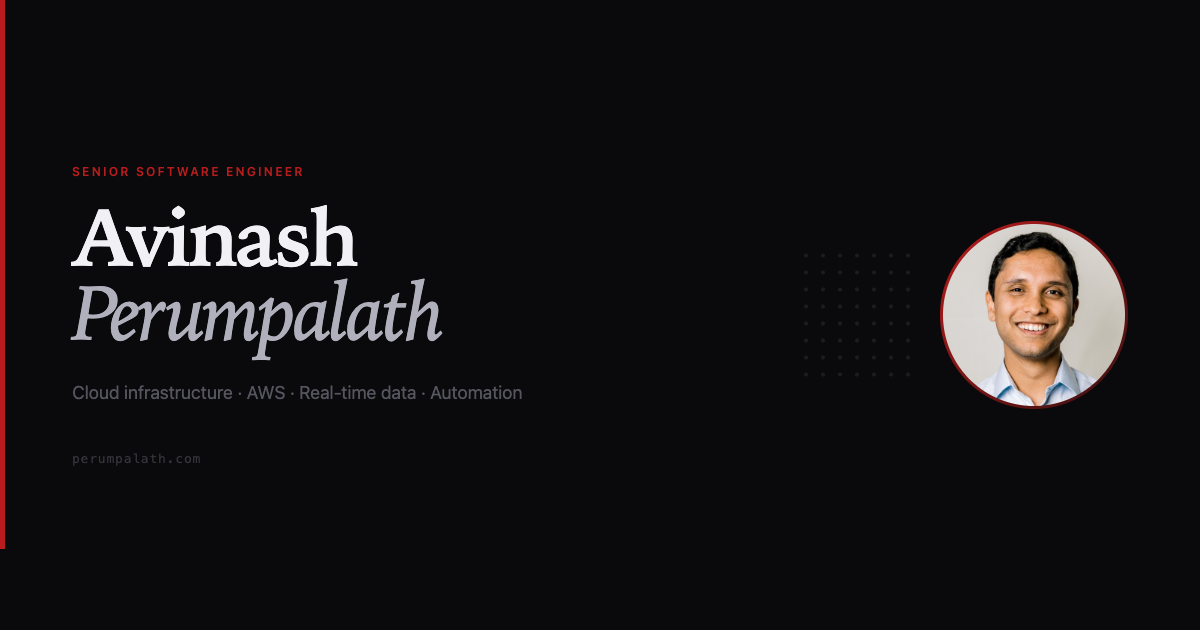
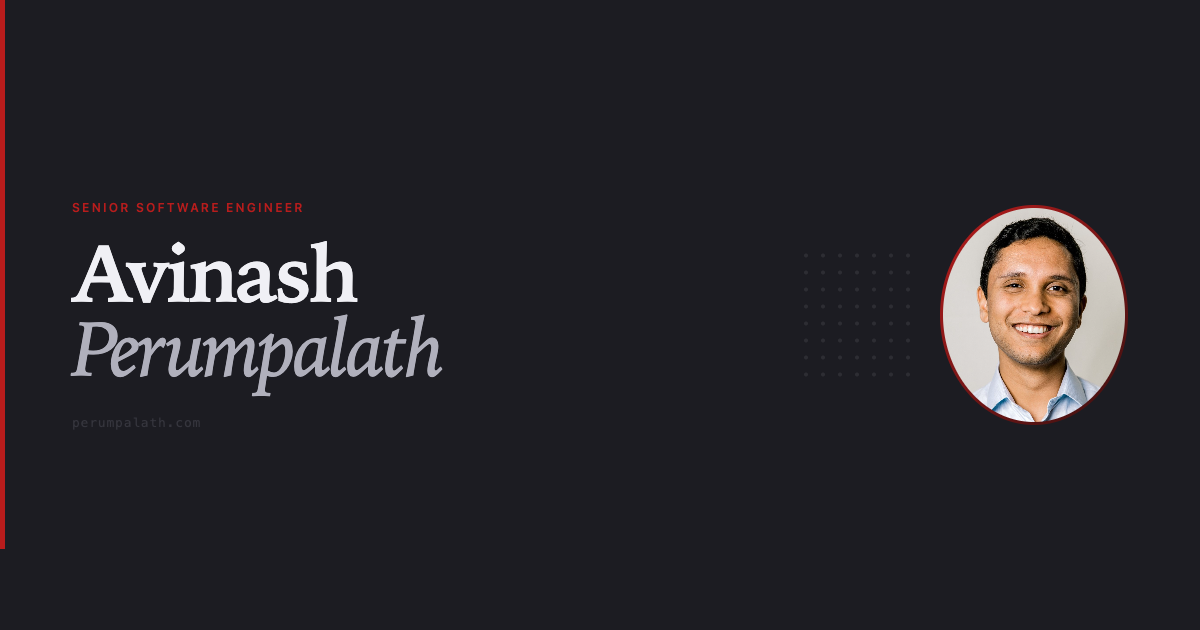
Trim sidebar bio, update OG card, and add README
- Shorten bio to a single focused sentence about Delta work
- OG card: softer dark background, larger headshot, tagline removed
- Update README to describe repo contents and OG image workflow

diff --git a/index.html b/index.html
@@ -519,8 +519,8 @@
     </div>
 
     <p class="sidebar-bio">
-      I am a cloud infrastructure and backend systems engineer with a focus on AWS, real-time data, and automation. Currently modernizing core operational systems at Delta Air Lines.<br><br>
-      I live in Kennesaw, GA with my wife and three young kids.
+      I am an experienced software engineer focused on cloud infrastructure, real-time data, and automation. Currently building operational and data systems at Delta Air Lines.<br><br>
+      I live in Kennesaw, GA with my wife and three young children.
     </p>
 
     <ul class="sidebar-nav">
@@ -559,7 +559,8 @@
         <div class="job-loc">Atlanta, GA</div>
         <ul class="bullets">
           <li>Leading cloud migration of a real-time passenger and flight record database, modernizing core operational infrastructure.</li>
-          <li>Helping lead AI integration efforts, identifying and implementing opportunities to bring intelligent automation into airline systems.</li>
+          <li>Building an internal data platform that aggregates passenger, flight, PNR, and operational data from across Delta into authoritative trip records, served to internal teams and applications via REST APIs.</li>
+          <li>Helping lead AI integration efforts, identifying and implementing opportunities to bring intelligent automation into airline workflows.</li>
         </ul>
       </div>
 

diff --git a/og-card.html b/og-card.html
@@ -9,7 +9,7 @@
       width: 1200px;
       height: 630px;
       overflow: hidden;
-      background: #0a0a0c;
+      background: #1c1c22;
       font-family: -apple-system, BlinkMacSystemFont, 'Helvetica Neue', Helvetica, Arial, sans-serif;
       color: #f0f0f5;
       display: flex;
@@ -106,8 +106,8 @@
     }
 
     .photo-ring {
-      width: 188px;
-      height: 188px;
+      width: 220px;
+      height: 220px;
       border-radius: 50%;
       padding: 3px;
       background: linear-gradient(135deg, #b81c1c 0%, #3a1010 100%);
@@ -136,7 +136,6 @@
       <span class="first">Avinash</span><br>
       <span class="last">Perumpalath</span>
     </div>
-    <div class="tagline">Cloud infrastructure · AWS · Real-time data · Automation</div>
     <div class="url">perumpalath.com</div>
   </div>
 

diff --git a/README.md b/README.md
@@ -1,1 +1,29 @@
-# personal-site
+# perumpalath.com
+
+Personal website and resume for Avinash Perumpalath, live at [perumpalath.com](https://perumpalath.com).
+
+## What's here
+
+- `index.html` — the entire site, a single self-contained HTML file with embedded CSS. No framework, no build step.
+- `headshot.jpg` — profile photo used in the sidebar and OG card.
+- `og-image.png` — Open Graph preview image shown when the site is shared on LinkedIn, iMessage, Slack, etc.
+- `og-card.html` — source template used to generate `og-image.png` via headless browser screenshot.
+- `CNAME` — points the GitHub Pages deployment to the custom domain.
+
+## Running locally
+
+Open `index.html` directly in a browser. No server required.
+
+## Regenerating the OG image
+
+If you update `og-card.html`, regenerate the preview image with:
+
+```bash
+/Applications/Brave\ Browser.app/Contents/MacOS/Brave\ Browser \
+  --headless=new \
+  --screenshot="og-image.png" \
+  --window-size=1200,630 \
+  --hide-scrollbars \
+  --force-device-scale-factor=1 \
+  "file://$(pwd)/og-card.html"
+```
